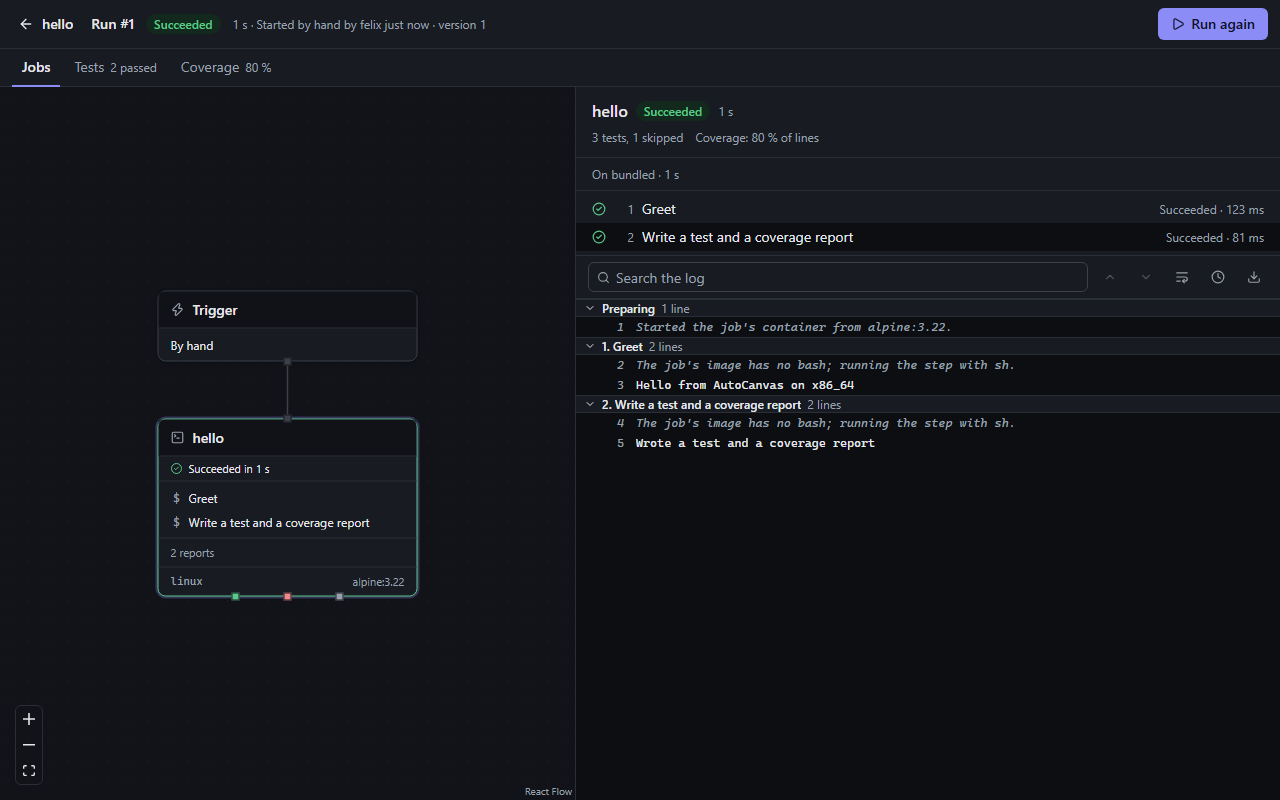
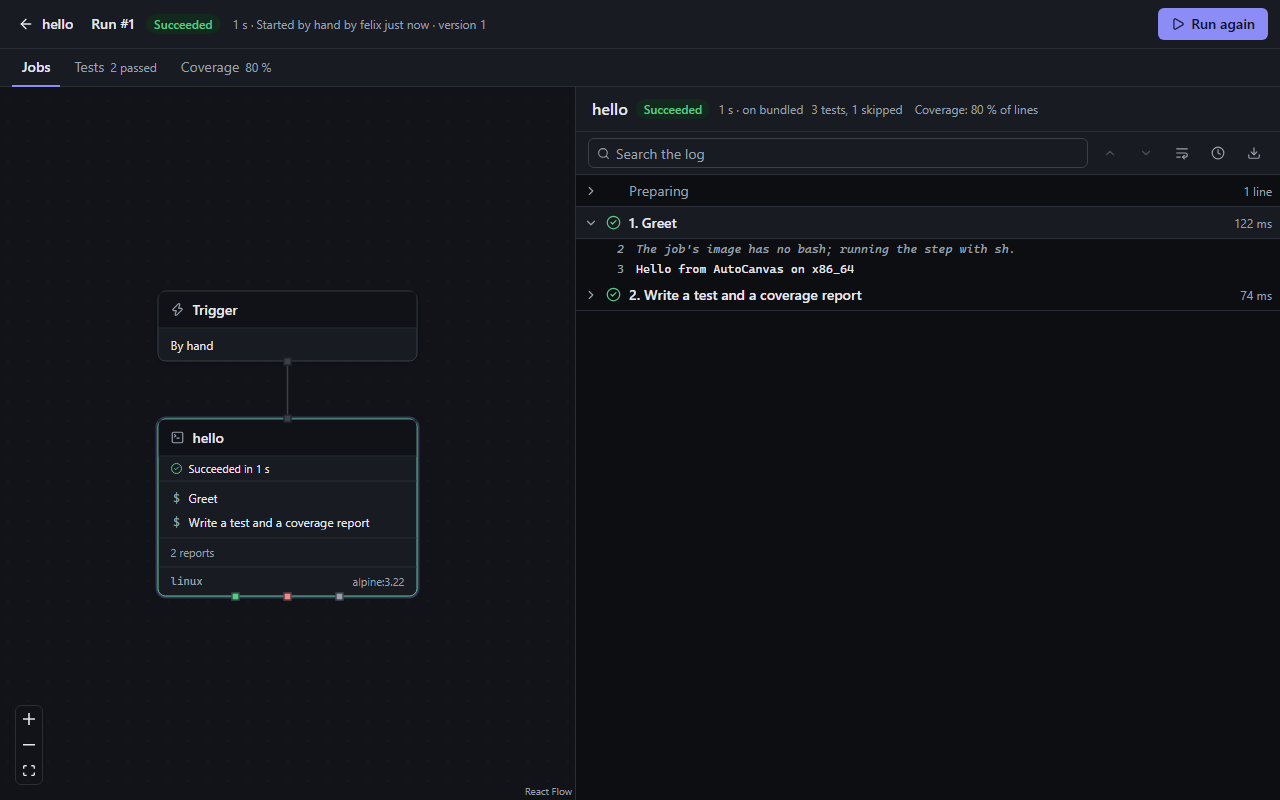
docs: the overview's canvas, Run in the header and the log's step rows, with e2e and pictures
Claude-Session: https://claude.ai/code/session_016aNx9X6yaXxKqj6xZKcVc9

Changed region(s): [[0.4375, 0.125, 0.875, 0.5625], [0.9062, 0.2188, 1.0, 0.3125], [0.9062, 0.3438, 1.0, 0.375]]

diff --git a/src/web/e2e/07-runs.spec.ts b/src/web/e2e/07-runs.spec.ts
@@ -130,10 +130,10 @@ test('a run is started by hand, followed, found in the lists and cancelled', asy
   expect(created.ok()).toBeTruthy();
   const id = ((await created.json()) as { id: string }).id;
 
-  // Started from the automation's Runs tab, the run opens: its first job waits for a runner.
+  // Started with Run in the automation's header, the run opens: its first job waits for a runner.
   await page.goto(`/automations/${id}/runs`);
   await expect(page.getByRole('heading', { name: 'No runs yet' })).toBeVisible();
-  await page.getByRole('button', { name: 'Run', exact: true }).first().click();
+  await page.getByRole('button', { name: 'Run', exact: true }).click();
   await expect(page.getByRole('heading', { name: 'Run #1' })).toBeVisible();
   await expect(page.getByText('Running', { exact: true }).first()).toBeVisible();
   await expect(
@@ -142,7 +142,7 @@ test('a run is started by hand, followed, found in the lists and cancelled', asy
       .getByText(/^Running for/)
       .first(),
   ).toBeVisible();
-  await expect(page.getByText('Waiting for a runner')).toBeVisible();
+  await expect(page.getByText(/waiting for a runner/)).toBeVisible();
   await snapshot(page, 'runs-1-running');
 
   // The lists show it.
@@ -157,7 +157,7 @@ test('a run is started by hand, followed, found in the lists and cancelled', asy
   await expect(page.getByText('Cancelled', { exact: true }).first()).toBeVisible();
   const runId = new URL(page.url()).pathname.split('/').at(-1) ?? '';
 
-  // A job's steps and log (served by the test, as no runner takes part): colors, steps, search.
+  // A job's steps and log (served by the test, as no runner takes part): the failed step open, colors, search.
   await serveFinishedBuild(page, runId);
   await page.reload();
   const log = page.getByRole('log', { name: 'Lines of build, attempt 1' });
@@ -166,7 +166,7 @@ test('a run is started by hand, followed, found in the lists and cancelled', asy
   await page.getByRole('searchbox', { name: 'Search the log' }).fill('received');
   await expect(page.getByText('1 of 1')).toBeVisible();
   await snapshot(page, 'runs-3-log');
-  await page.getByRole('button', { name: 'Test' }).first().click();
-  await page.getByRole('button', { name: /^2\. Test/ }).click();
+  await expect(log.getByRole('button', { name: /^1\. Install, Succeeded/ })).toHaveAttribute('aria-expanded', 'false');
+  await log.getByRole('button', { name: /^2\. Test, Failed \(exit 1\)/ }).click();
   await expect(log).not.toContainText('src/checkout.test.ts');
 });

diff --git a/src/web/e2e/11-walk-through.spec.ts b/src/web/e2e/11-walk-through.spec.ts
@@ -178,18 +178,26 @@ test('an automation built on the canvas runs on a real runner, reports its tests
   await page.getByRole('dialog', { name: 'Save version 2' }).getByRole('textbox', { name: 'Message' }).fill('Tests');
   await page.keyboard.press('Enter');
   await expect(page.getByText('Saved version 2')).toBeVisible();
-  await page.goto(`/automations/${automationId}/runs`);
-  await page.getByRole('button', { name: 'Run', exact: true }).first().click();
+  await page.goto(`/automations/${automationId}`);
+  await page.getByRole('button', { name: 'Run', exact: true }).click();
   await expect(page.getByRole('heading', { name: 'Run #1' })).toBeVisible();
 
   // The log is followed while the job runs.
   const log = page.getByRole('log', { name: 'Lines of test, attempt 1' });
+  // The running step is open; once it went well it closes, and its row opens it again.
   await expect(log).toContainText('Testing cart', { timeout: 120_000 });
-  await expect(log).toContainText('Tests done', { timeout: 30_000 });
+  await expect(log.getByRole('button', { name: /^2\. Step 2, Succeeded/ })).toHaveAttribute('aria-expanded', 'false', {
+    timeout: 60_000,
+  });
+  await log.getByRole('button', { name: /^2\. Step 2/ }).click();
+  await expect(log).toContainText('Tests done');
   await docsShot(page, 'tour-run-log');
   await expect(page.getByText('Succeeded', { exact: true }).first()).toBeVisible({ timeout: 120_000 });
   await card(page, 'smoke').click();
+  // Steps that went well are closed once the job is done; the row opens the step's lines.
   const smoke = page.getByRole('log', { name: 'Lines of smoke, attempt 1' });
+  await expect(smoke.getByRole('button', { name: /^Preparing/ })).toBeVisible();
+  await smoke.getByRole('button', { name: /^2\. / }).click();
   await expect(smoke).toContainText('Welcome to nginx');
   await snapshot(page, 'walk-1-run');
 

diff --git a/src/web/e2e/12-setup.spec.ts b/src/web/e2e/12-setup.spec.ts
@@ -102,11 +102,12 @@ test('a fresh installation is set up with the token from the log, then its addre
 
   if (withRunner) {
     // The first run: the example on the bundled runner, with its log, tests and coverage.
-    await page.goto(`${page.url()}/runs`);
-    await page.getByRole('button', { name: 'Run', exact: true }).first().click();
+    await page.getByRole('button', { name: 'Run', exact: true }).click();
     await expect(page.getByRole('heading', { name: 'Run #1' })).toBeVisible();
     await expect(page.getByText('Succeeded', { exact: true }).first()).toBeVisible({ timeout: 120_000 });
-    await expect(page.getByRole('log', { name: 'Lines of hello, attempt 1' })).toContainText('Hello from AutoCanvas');
+    const log = page.getByRole('log', { name: 'Lines of hello, attempt 1' });
+    await log.getByRole('button', { name: /^1\. Greet/ }).click();
+    await expect(log).toContainText('Hello from AutoCanvas');
     const views = page.getByRole('navigation', { name: 'Views of the run' });
     await expect(views.getByRole('link', { name: /Coverage 80 %/ })).toBeVisible();
     await docsShot(page, 'install-6-first-run');

diff --git a/src/web/e2e/14-repositories.spec.ts b/src/web/e2e/14-repositories.spec.ts
@@ -73,10 +73,11 @@ test('a Git repository is connected in a folder, followed, given a webhook, run 
     await page.getByRole('link', { name: /Build the shop/ }).click();
     const from = page.getByRole('region', { name: 'From repository' });
     await expect(from.getByText('.autocanvas/automations/build.yml')).toBeVisible();
-    await expect(page.getByRole('button', { name: 'Automation actions' })).toHaveCount(0);
     await docsShot(page, 'repository-automation');
-    await page.goto(`${page.url()}/runs`);
-    await page.getByRole('button', { name: 'Run', exact: true }).first().click();
+    await page.getByRole('button', { name: 'Automation actions' }).click();
+    await expect(page.getByRole('menuitem')).toHaveText(['Download']);
+    await page.keyboard.press('Escape');
+    await page.getByRole('button', { name: 'Run', exact: true }).click();
     await expect(page.getByRole('heading', { name: 'Run #1' })).toBeVisible();
     await expect(page.getByText(/ on main/)).toBeVisible();
     await snapshot(page, '14-repositories-run');

diff --git a/docs/user/runs.md b/docs/user/runs.md
@@ -20,17 +20,17 @@ wait for one.
 ## In the web UI
 
 **Runs** in the sidebar lists the newest runs of every automation you may see, filtered by state if
-you like; the start page shows the latest five. An automation's **Runs** tab lists its own, with
-**Run** to start one by hand.
+you like; the start page shows the latest five. An automation's **Runs** tab lists its own;
+**Run** in the automation's header starts one by hand.
 
 A run's page fills the window:
 
 - **On the left, the run as a graph**: the file it ran, with each job's status on its card (waiting,
   running for how long, succeeded or failed in how long, skipped and why).
 - **On the right, the job you choose**:
-  - its status, outputs (secret ones are shown as *hidden*) and attempts, the last one first;
-  - the steps of the attempt with their status, exit code and duration;
-  - below them, its **log**.
+  - its status, duration, runner, test and coverage results, outputs (secret ones are shown as
+    *hidden*) and attempts, the last one first;
+  - below them, its **log**, with a row for each step.
 - **Actions**: **Cancel** stops the run while it runs, and **Run again** starts a new one; both need
   the Operator role.
 
@@ -39,13 +39,14 @@ A run's page fills the window:
 
 The page follows a run while it runs. The log arrives live:
 
-- **Steps**: lines are grouped by the step that wrote them; choose a step in the list, or its
-  heading in the log, to jump there or fold it away.
+- **Steps**: each step is a row with its status, exit code and duration, which opens to the lines
+  it wrote. A step that runs or failed is open, the others are closed; choose a row to open or close
+  it. The runner's own lines are in **Preparing** before the steps and **Cleaning up** after them.
 - **Colors**: they appear as the program wrote them.
 - **Following**: the log stays at its end while it grows. Scroll up to read, and **Jump to the end**
   follows again.
 - **Search** (Enter and Shift+Enter move between matches) works on the whole log, also on lines out
-  of view.
+  of view; a match in a closed step opens it.
 - **Lines**: they can wrap or show their time.
 - **Links**: a line number links to that line (`#L120`).
 - **Download** saves the log as text.

diff --git a/docs/user/managed-automations.md b/docs/user/managed-automations.md
@@ -67,11 +67,14 @@ has problems, they are listed with their line, column and [code](diagnostics.md)
 and choose it again.
 
 An automation's page shows what starts it (by hand, webhook, schedules with their next time, or
-another automation), its latest runs, warnings worth a look, and its file, which **Download** saves
-as YAML. **Versions** lists every version with its message, author and time; a version shows what
-changed from the one before, with unchanged lines collapsed and canvas positions (`x-editor`) left
-out, or its full file. **Restore** saves an old version's file as the newest version. The menu
-next to **Download** renames, moves and deletes the automation; it is there for editors only.
+another automation), its latest runs, warnings worth a look, and the automation itself: as a canvas
+to look at, or as its file (**Canvas** and **File** switch; changes happen in the editor).
+**Run** in the page's header starts it by hand, on every tab, for people with the Operator role
+when its triggers allow it. **Versions** lists every version with its message, author and time; a
+version shows what changed from the one before, with unchanged lines collapsed and canvas positions
+(`x-editor`) left out, or its full file. **Restore** saves an old version's file as the newest
+version. The menu next to **Run** downloads the file as YAML, and for editors renames, moves and
+deletes the automation.
 
 **Editor** opens the automation's editor, which fills the whole window: the app's sidebar and the
 folder tree make room for it, and the arrow next to the automation's name leads back. It shows the

diff --git a/docs/user/web-ui.md b/docs/user/web-ui.md
@@ -47,7 +47,8 @@ automations once there are some; the badge next to the name is your role.
 ![Creating an automation](img/tour-new-automation-light.png#gh-light-mode-only)
 ![Creating an automation](img/tour-new-automation-dark.png#gh-dark-mode-only)
 
-The automation's page opens with its overview. The starter file has one job, `hello`, that prints a
+The automation's page opens with its overview: what starts it, its latest runs, and the automation
+as a canvas (or, with **File**, its file). The starter file has one job, `hello`, that prints a
 greeting and writes a small test and coverage report.
 
 ## 3. Change it on the canvas
@@ -98,9 +99,10 @@ Press **Ctrl+S** (or choose **Save**), write a message such as `Add a smoke test
 
 ## 5. Run it and follow the log
 
-1. Choose the automation's **Runs** tab and **Run**.
+1. Choose **Run** in the automation's header.
 2. The run page opens. It shows the jobs as on the canvas, each with its state, and the chosen job
-   on the right: its attempts, its steps and the log, which follows live while the job runs.
+   on the right: a row for each of its steps, which opens to the step's log. The log follows live
+   while the job runs; a step that runs or failed is open.
 
 ![A run with its live log](img/tour-run-log-light.png#gh-light-mode-only)
 ![A run with its live log](img/tour-run-log-dark.png#gh-dark-mode-only)

diff --git a/docs/technical/web-ui.md b/docs/technical/web-ui.md
@@ -216,8 +216,13 @@ API (`api/runs.ts`):
   - *Reconnecting*: the browser reconnects with `Last-Event-ID`. When it gives up, the log follows
     again from the last chunk known after three seconds. Chunks are kept by sequence, so one that
     arrives twice counts once (`logModel.ts`).
-  - *Drawing*: lines are drawn with `@tanstack/react-virtual`, only those in view. Search,
-    line links and the download work on the data, not on what is drawn.
+  - *Steps*: `groupLines` makes a group for each step of the attempt (also one without lines yet)
+    and for the runner's lines before and after them. A group is open by default while its step
+    runs or after it failed (`openByDefault`); one opened or closed by hand keeps that. The steps
+    have no list of their own: their rows in the log are the list.
+  - *Drawing*: rows are drawn with `@tanstack/react-virtual`, only those in view. Search,
+    line links and the download work on the data, not on what is drawn; a match in a closed step
+    opens it.
   - *Colors*: `ansi.ts` turns SGR escape sequences into styled text segments: the 16 colors with
     the theme's `--log-N` tokens (AA in light and dark), 256 colors and RGB as they are. Every other
     sequence is removed, and a line redrawn with `\r` shows its last state. It never produces
